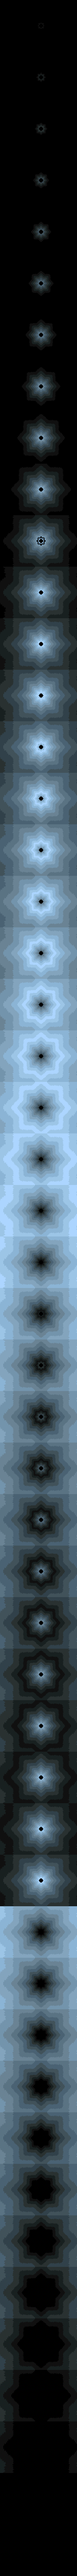
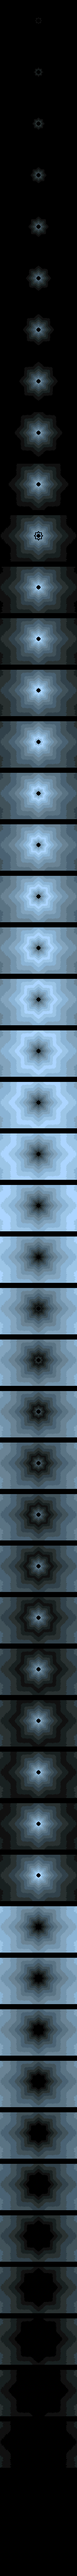
Evolución: el Pokémon y el centro del fondo animado en el mismo punto

Changed region(s): [[0.0, 0.0625, 1.0, 0.9688]]

diff --git a/src/ui/campaign/EvolutionScene.tsx b/src/ui/campaign/EvolutionScene.tsx
@@ -12,7 +12,7 @@ import { emeraldSprite, emeraldTheme } from '../console/themes/emerald'
 import { esCampaign } from '../../i18n/esCampaign'
 import { PartySlot } from './PartySlot'
 import { messagePages } from './emeraldBattleModel'
-import { animationFrame, evolutionLength, firstStep, nextStep, optionsWidth, type EvolutionChoices, type EvolutionStep, type LeagueEvolution } from './evolutionModel'
+import { animationFrame, evolutionLength, sceneSpriteTop, firstStep, nextStep, optionsWidth, type EvolutionChoices, type EvolutionStep, type LeagueEvolution } from './evolutionModel'
 
 const LENGTH = evolutionLength()
 const frameShowsNew = (step: EvolutionStep, frame: number) => { return step === 'animating' && animationFrame(frame).evolved }
@@ -89,11 +89,11 @@ export function EvolutionScene({ evolutions, nameOf, hpOf, onDone, scale, reserv
           {row >= 0 && <div className="evolution-bg" style={{ left: 0, top: 0, width: 240, height: 112, backgroundImage: `url("${emeraldTheme.asset('evolucion-fondo')}")`, backgroundPosition: `0 ${-160 * row}px` }} />}
           {scales ? (
             <>
-              <img className="mon-front evolution-silhouette" src={emeraldSprite('front', current.species)} alt="" style={{ left: 88, top: 24, transform: `scale(${scales[0] / 256})` }} />
-              <img className="mon-front evolution-silhouette" src={emeraldSprite('front', chosen)} alt="" style={{ left: 88, top: 24, transform: `scale(${scales[1] / 256})` }} />
+              <img className="mon-front evolution-silhouette" src={emeraldSprite('front', current.species)} alt="" style={{ left: 88, top: sceneSpriteTop(current.species), transform: `scale(${scales[0] / 256})` }} />
+              <img className="mon-front evolution-silhouette" src={emeraldSprite('front', chosen)} alt="" style={{ left: 88, top: sceneSpriteTop(chosen), transform: `scale(${scales[1] / 256})` }} />
             </>
           ) : (
-            <img className="mon-front" src={emeraldSprite('front', shownSpecies)} alt="" style={{ left: 88, top: 24 }} />
+            <img className="mon-front" src={emeraldSprite('front', shownSpecies)} alt="" style={{ left: 88, top: sceneSpriteTop(shownSpecies) }} />
           )}
           {flash > 0 && <div className="evolution-flash" style={{ left: 0, top: 0, width: 240, height: 160, opacity: flash }} />}
           <img src={emeraldTheme.asset('combate-caja-mensaje')} alt="" style={{ left: 0, top: 112 }} />

diff --git a/src/ui/campaign/evolutionModel.ts b/src/ui/campaign/evolutionModel.ts
@@ -3,6 +3,7 @@
  * `leagueEvolutionTargets`), y la secuencia de mensajes de la escena por miembro. Los de una forma no preguntan; los de varias, sí.
  */
 import { leagueEvolutionTargets, type CampaignDefinition, type CampaignState } from '../../core/nuzlocke/campaign'
+import emeraldSprites from '../../generated/emerald/sprites.json'
 
 export type LeagueEvolution = { id: string; species: string; level: number; targets: string[] }
 
@@ -93,3 +94,10 @@ export function animationFrame(frame: number): { row: number; scales: [number, n
     evolved: after >= 0,
   }
 }
+
+/**
+ * Arriba del sprite en la escena para que el dibujo quede centrado en (120,64), el centro del remolino del fondo (Jose, 12/11/2026):
+ * el frente va pegado abajo en su recuadro de 64 x 64 con `frontY` filas vacías encima, así que se sube la mitad de ese hueco.
+ */
+export const sceneSpriteTop = (species: string): number =>
+  32 - Math.round(((emeraldSprites as Record<string, { frontY: number }>)[species]?.frontY ?? 0) / 2)

diff --git a/scripts/decomp/esmeralda.py b/scripts/decomp/esmeralda.py
@@ -583,10 +583,12 @@ def evolution_bg():
         colors = [(0, 0, 0)] * 256
         for bank in range(16):
             colors[bank * 16:(bank + 1) * 16] = [base[i] for i in row]
-        frame = Image.new('RGBA', (240, 160), (0, 0, 0, 255))
+        # El mapa entero (32 x 32 teselas) tiene el centro del remolino en (128,80); se recorta para dejarlo en (120,64), el centro
+        # del Pokémon en la escena (CreateSprite(…, 120, 64, …)), y que los dos coincidan (Jose, 12/11/2026).
+        frame = Image.new('RGBA', (256, 256), (0, 0, 0, 255))
         for layer in ('bg_outer.bin', 'bg_inner.bin'):
-            frame.alpha_composite(tilemap(tiles, u16(p / layer), 30, 20, 32, colors))
-        strip.paste(frame.convert('RGB'), (0, 160 * k))
+            frame.alpha_composite(tilemap(tiles, u16(p / layer), 32, 32, 32, colors))
+        strip.paste(frame.crop((8, 16, 248, 176)).convert('RGB'), (0, 160 * k))
     save(strip, 'evolucion-fondo.png')
 
 
